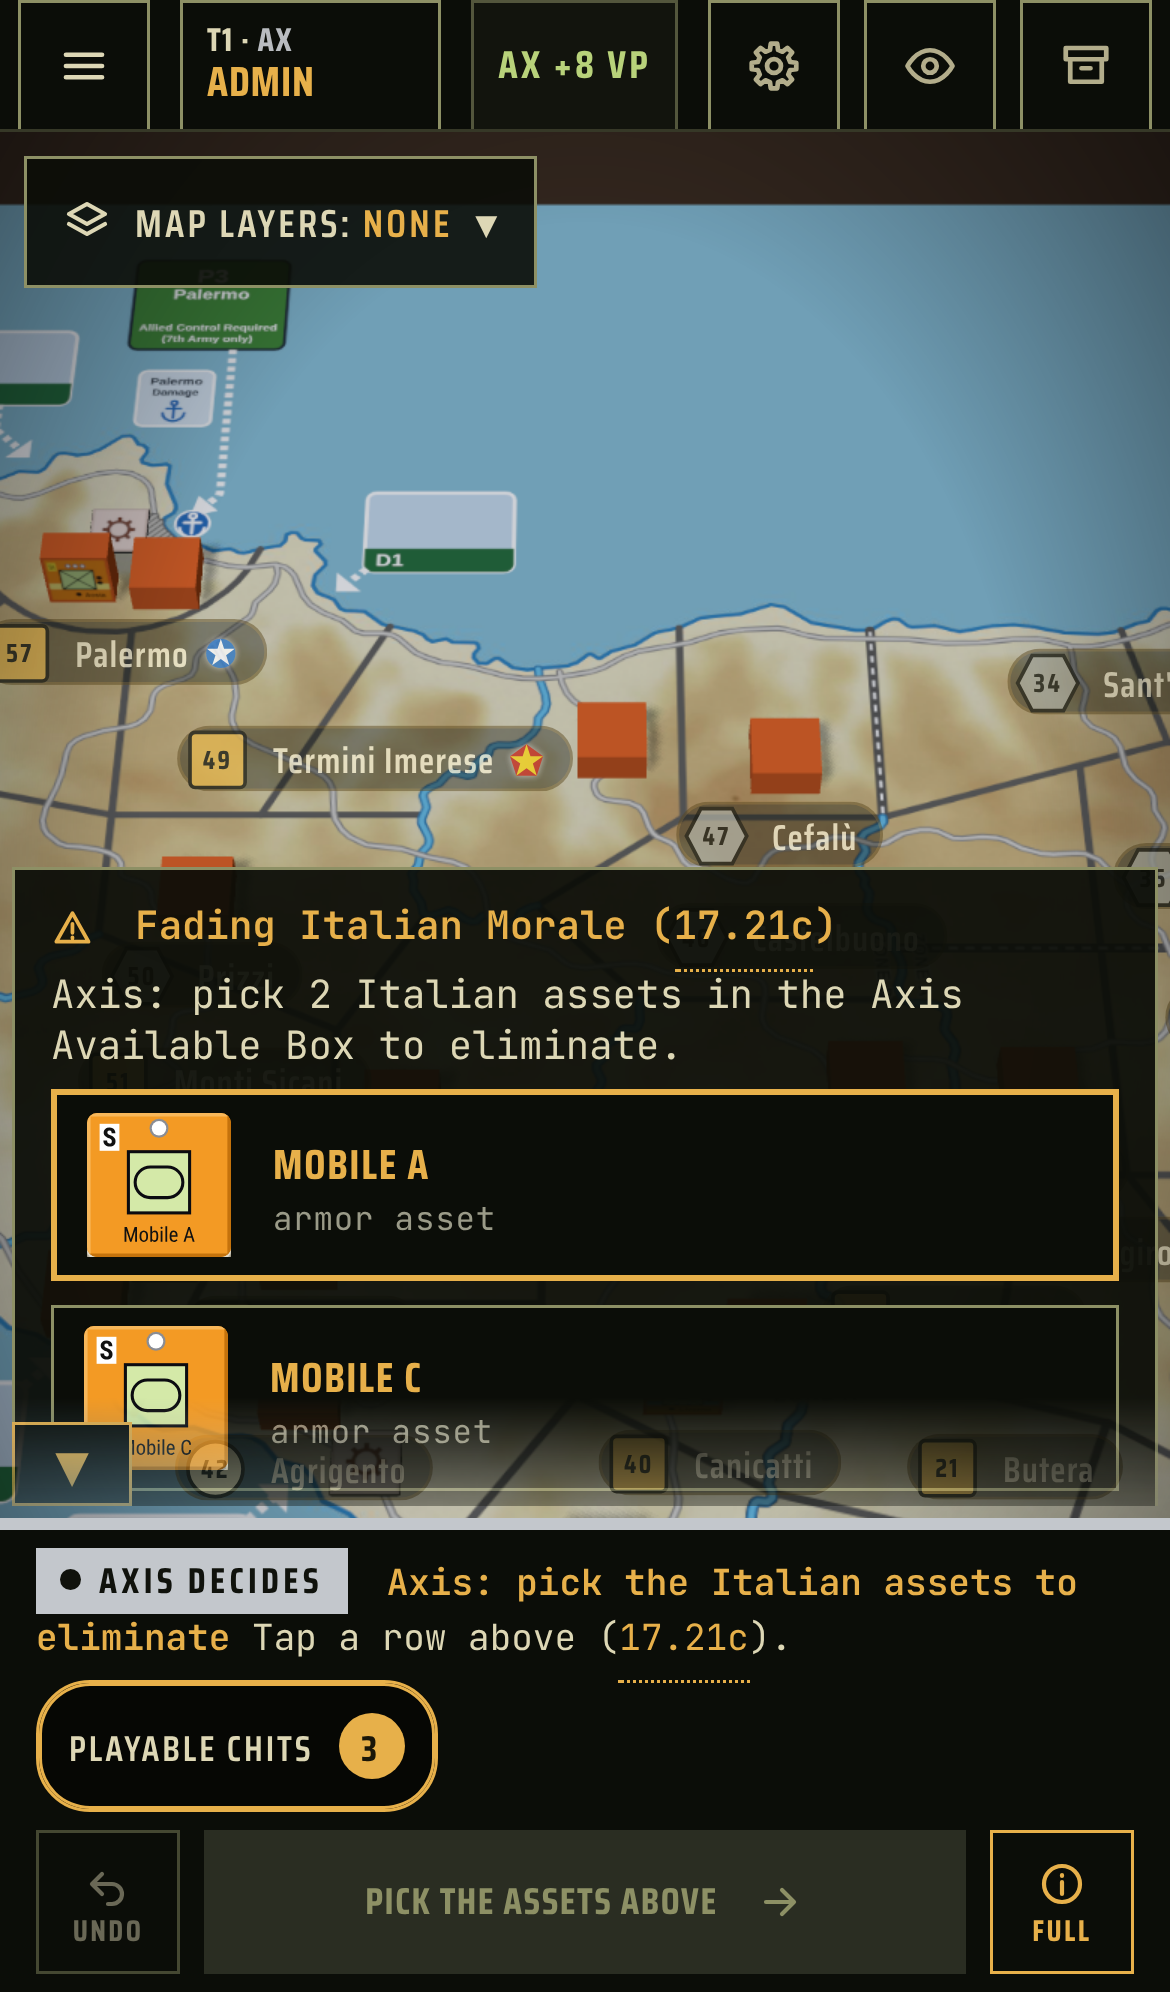
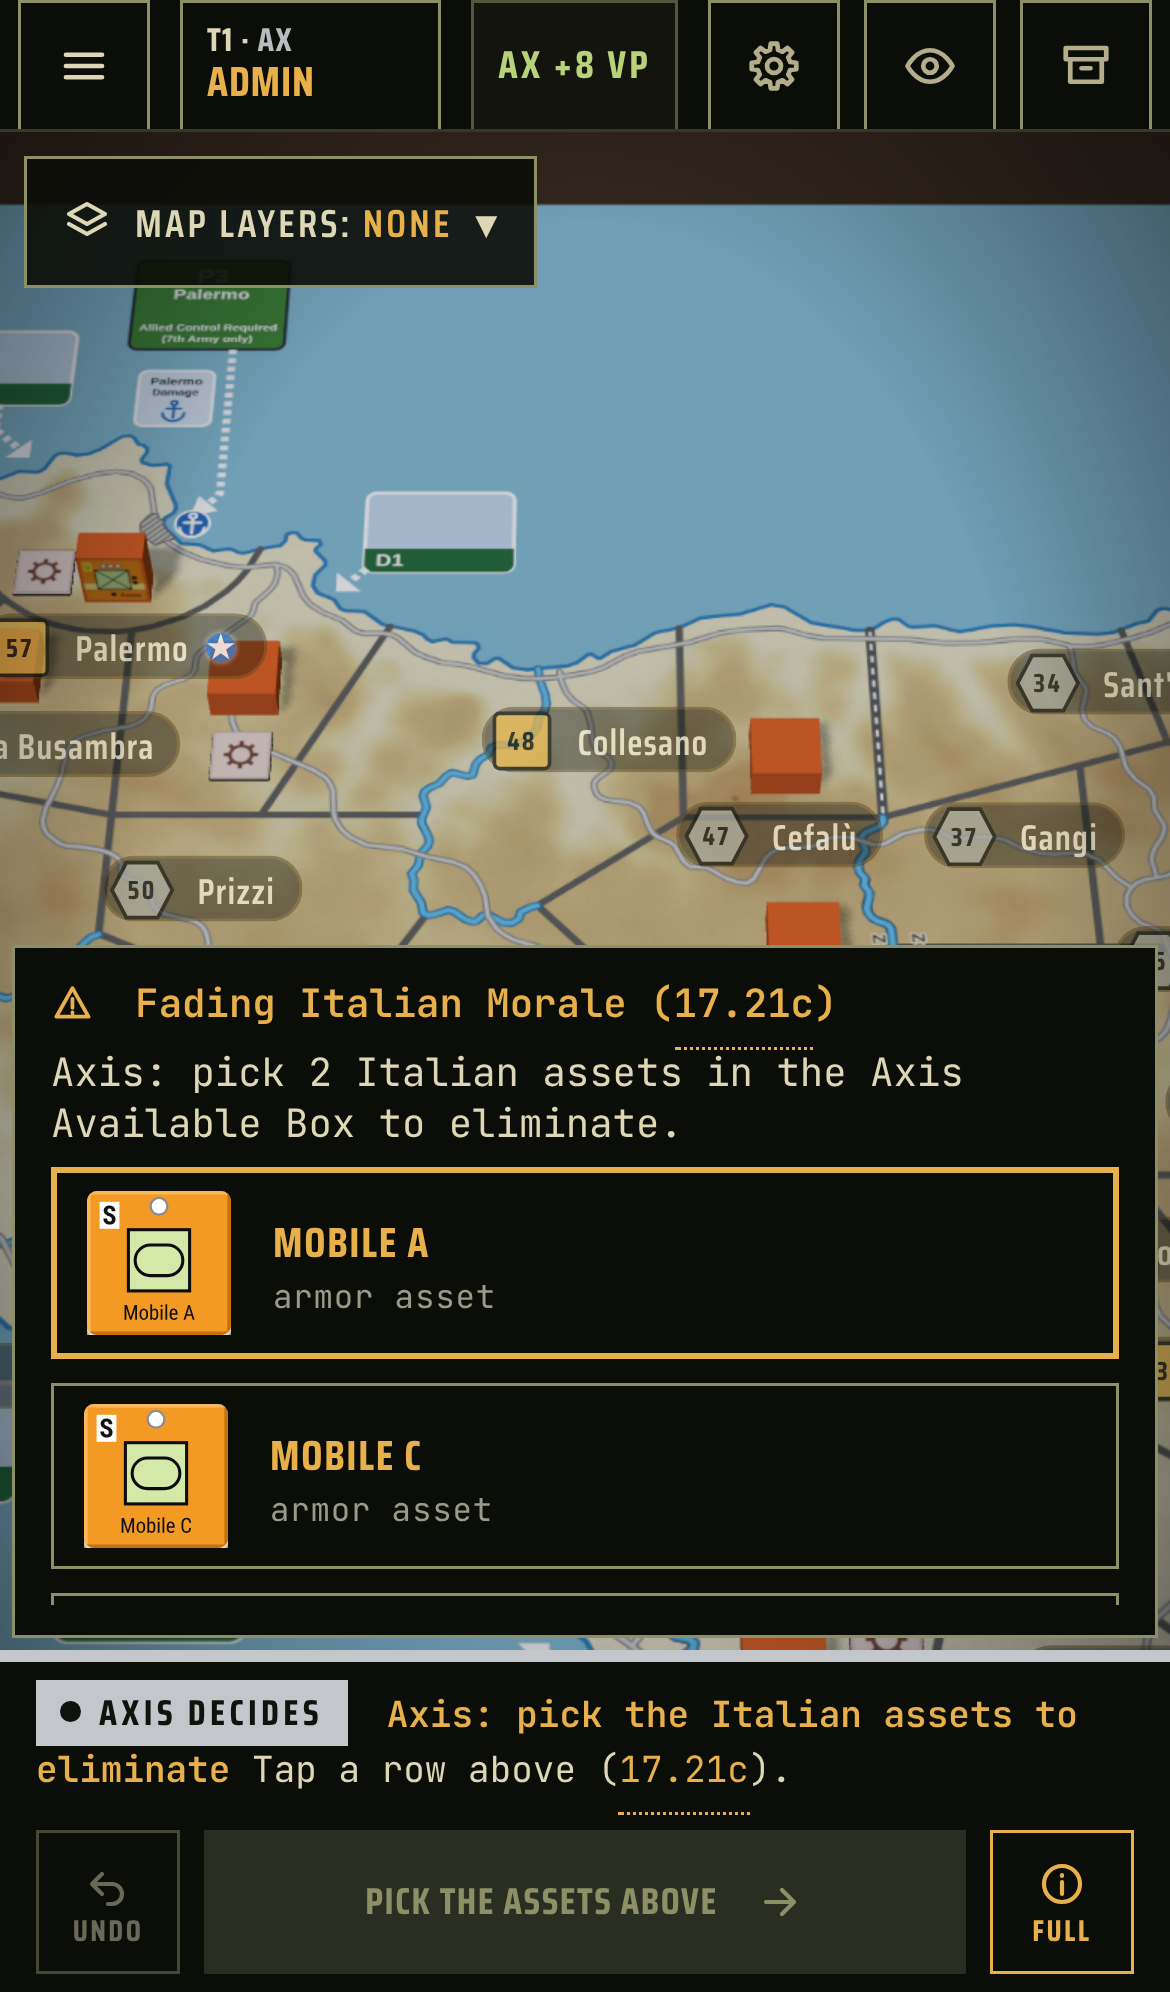
Morale pick tray on the phone: opaque, no fade and no stray scroll mark over a row, no chips during the forced pick
Claude-Session: https://claude.ai/code/session_01ME3JNWPCjyD5txMyWoKnu2

Changed region(s): [[0.0, 0.249, 1.0, 0.9337], [0.9231, 0.5291, 0.9538, 0.5914], [0.5846, 0.8715, 0.6154, 0.9026]]

diff --git a/web/src/dock.ts b/web/src/dock.ts
@@ -15,7 +15,7 @@ import { center, click, optsFor } from './map-input';
 import { btArmor, fwOk, rsOk } from './map-marks';
 import { handSide } from './rolls';
 import { usableNow } from './cards';
-import { canMove, lookAt, nextOf } from './prompt';
+import { canMove, lookAt, nextOf, moraleSide } from './prompt';
 import { refresh } from './main';
 
 /* ---------- the map from the keyboard: Tab onto the map, arrows between neighbouring areas, Enter selects or moves, N the next block that can move ---------- */
@@ -92,7 +92,7 @@ export function dockChips(): string {
             : 'disabled'
         } title="${esc(title || label)}">${esc(label)}${n != null ? `<b>${n}</b>` : ''}</button>`,
       );
-  if (g.battle) return '';
+  if (g.battle || moraleSide()) return ''; // a forced pick (Sicily 17.21c): nothing else can be done, so no chips
   if (g.phase === 'admin' || g.phase === 'reinforcement') {
     const own = online.active && !online.both() ? online.mySide() : null,
       hs = handSide ?? own ?? (g.phase === 'admin' ? E.adminActor(g) : g.phasing),

diff --git a/web/src/prompt.ts b/web/src/prompt.ts
@@ -203,7 +203,7 @@ function cannotMove(id: string) {
   return `<b>${esc(u.name)} cannot move:</b> ${why}. Tap another block.`;
 }
 /** Sicily 17.21c: the side that must pick Italian assets to eliminate, as far as this screen is concerned. */
-const moraleSide = () => {
+export const moraleSide = () => {
   if (g.game !== 'sicily' || g.phase !== 'admin') return null;
   const m = E.sicily.state(g).moralePick;
   return m ? ((['axis', 'allied'] as const).find((s) => m[s] > 0 && mine(s) && !(s === 'allied' && m.axis)) ?? null) : null;

diff --git a/web/src/css/bottom-bar.css b/web/src/css/bottom-bar.css
@@ -612,3 +612,17 @@
 #ui .volpanel .lossn:empty {
   display: none;
 }
+/* the pick list scrolls on its own: its tray is opaque, with no fade and no "more" mark over a row (PM check, 16 Nov) */
+#ui .dock > .volstack:has(.volpanel.pick) {
+  background: #0b0d08;
+  -webkit-mask-image: none;
+  mask-image: none;
+  overflow: visible;
+  max-height: none;
+}
+#ui .dock > .volstack:has(.volpanel.pick)::after {
+  display: none;
+}
+#ui .volpanel.pick {
+  background: #0b0d08;
+}
